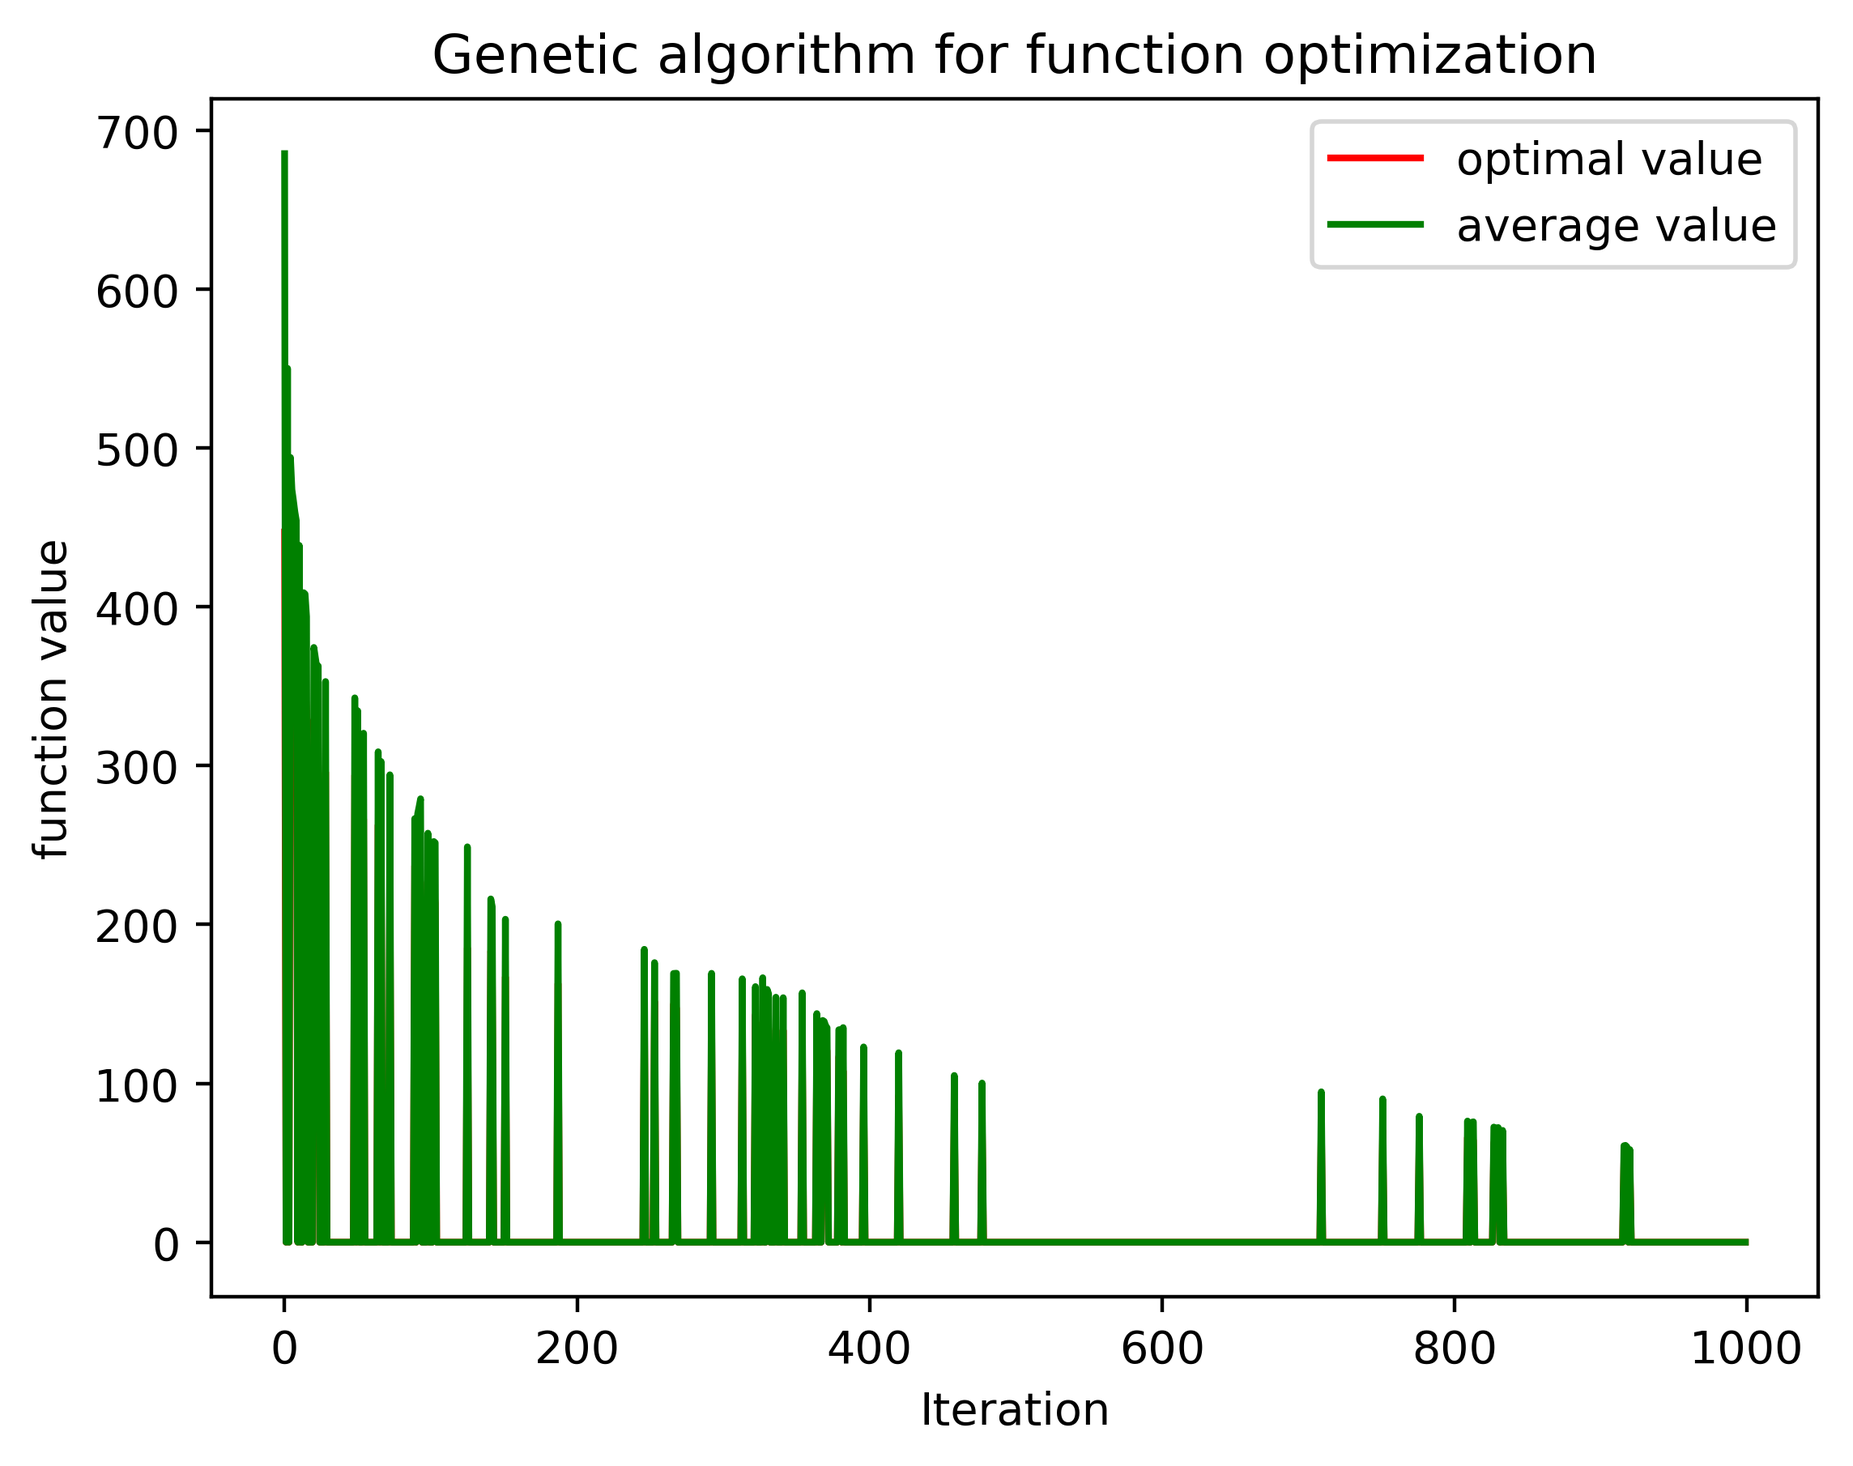
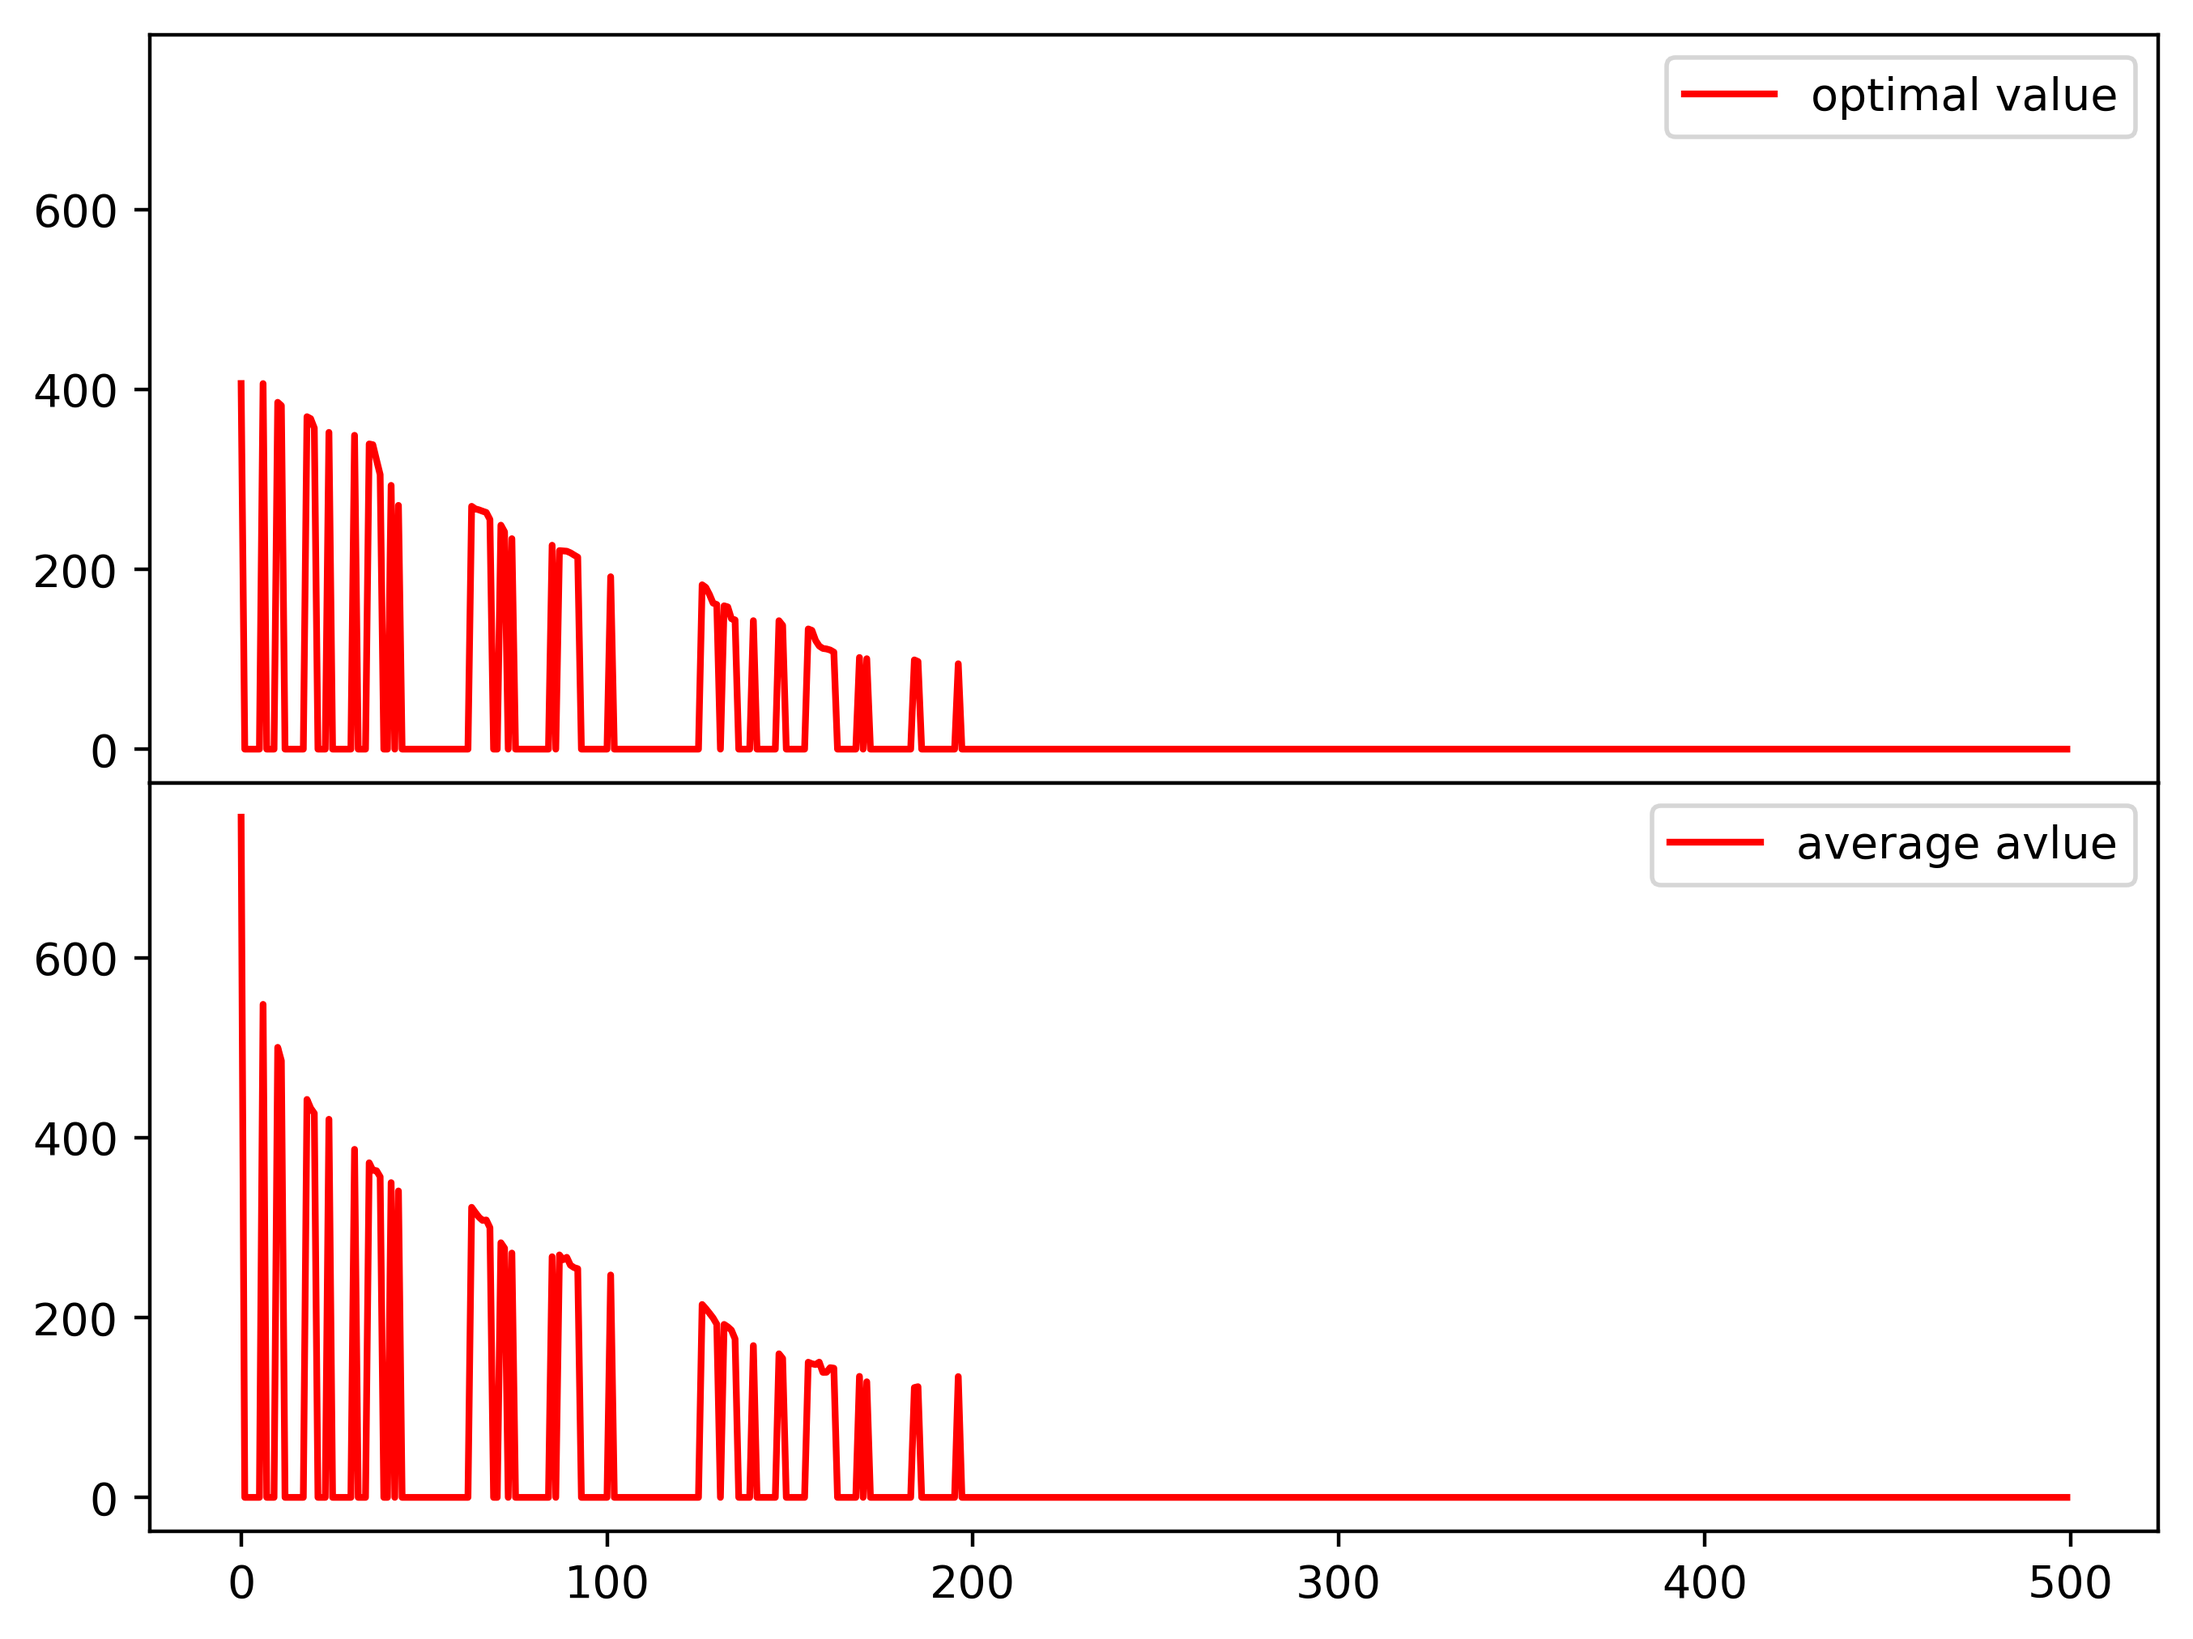
update .gitignore

diff --git a/geneticAlgorithm.py b/geneticAlgorithm.py
@@ -74,7 +74,7 @@ class geneticAlgorithm:
                 self.averageFitneess = np.mean(self.fitness)
                 self.trace[self.t, 0] = (1 - self.best.fitness) / self.best.fitness
                 self.trace[self.t, 1] = (1 - self.averageFitneess) / self.averageFitneess
-            print("Generation %d: optimal function value is: %f; average function value is %f" % ( self.t, self.trace[self.t, 0], self.trace[self.t, 1]))
+            # print("Generation %d: optimal function value is: %f; average function value is %f" % ( self.t, self.trace[self.t, 0], self.trace[self.t, 1]))
         print("Optimal function value is: %f; " % self.trace[self.t, 0]) 
         print ("Optimal solution is:") 
         print (self.best.chrom) 
@@ -141,9 +141,9 @@ class geneticAlgorithm:
                 mutatePos = np.random.randint(0, self.vardim-1)
                 theta = np.random.random()
                 if theta > 0.5:
-                    newPopulation[i].chrom[mutatePos] = newPopulation[i].chrom[mutatePos] - (newPopulation[i].chrom[mutatePos] - self.bound[0,mutatePos]) * (1 - np.random.random()**(1- self.t/self.MAXGEN))
+                    newPopulation[i].chrom[mutatePos] = newPopulation[i].chrom[mutatePos] - (newPopulation[i].chrom[mutatePos] - self.bound[0,mutatePos]) * (1 - np.random.random() * (1- self.t/self.MAXGEN)**2)
                 else:
-                    newPopulation[i].chrom[mutatePos] = newPopulation[i].chrom[mutatePos] + (self.bound[1, mutatePos] - newPopulation[i].chrom[mutatePos])* (1 - np.random.random() ** (1 - self.t / self.MAXGEN))
+                    newPopulation[i].chrom[mutatePos] = newPopulation[i].chrom[mutatePos] - (self.bound[1, mutatePos] - newPopulation[i].chrom[mutatePos])* (1 - np.random.random() *(1 - self.t / self.MAXGEN)**2)
 
         self.population = newPopulation
     
@@ -152,18 +152,19 @@ class geneticAlgorithm:
         plot the result of the genetic algorithm
         画出结果
         ''' 
+        plt.close()
         x = np.arange(0, self.MAXGEN) 
-        y1 = self.trace[:, 0] 
-        y2 = self.trace[:, 1] 
-        plt.plot(x, y1, 'r', label='optimal value') 
-        plt.plot(x, y2, 'g', label='average value') 
-        plt.xlabel("Iteration") 
-        plt.ylabel("function value") 
-        plt.title("Genetic algorithm for function optimization") 
-        plt.legend() 
+        labels = ["optimal value", "average avlue"]
+        
+        fig, axes = plt.subplots(2,1, figsize=(8,6),sharey=True)
+        
+        for i in range(2):
+            axes[i].plot(x, self.trace[:,i], 'r', label=labels[i]) 
+            axes[i].legend(loc='best')
+        plt.subplots_adjust(wspace=0,hspace=0)
         plt.savefig('GA_iteration.png', dpi=400, bbox_inches='tight')
 
 if __name__ == "__main__":
     boundaries = np.tile([[-600],[600]],25)
-    ga = geneticAlgorithm(60, 25, boundaries, 1000,[0.9, 0.1, 0.5])
+    ga = geneticAlgorithm(60, 25, boundaries, 500, [0.9, 0.1, 0.5])
     ga.solve()

diff --git a/objFunction.py b/objFunction.py
@@ -16,12 +16,9 @@ def grieFunc(vardim, x, bound):
 
 def rastFunc(vardim, x, bound):
     """
-    Rastrigin function
-    在数学优化中，Rastrigin函数是一个非凸函数，用作优化算法的性能测试问题。这是一个非线性多模态函数的典型例子。它最初由Rastrigin [1]提出作为二维函数，并已被Mühlenbein等人推广。[2]寻找这个函数的最小值是一个相当困难的问题，因为它有很大的搜索空间和大量的局部最小值。
-
-在一个n维域上，它被定义为：
-
-{\ displaystyle f（\ mathbf {x}）= An + \ sum _ {i = 1} ^ {n} \ left [x_ {i} ^ {2} -A \ cos（2 \ pi x_ {i}）\对]} f（\ mathbf {x}）= An + \ sum _ {i = 1} ^ {n} \ left [x_ {i} ^ {2} -A \ cos（2 \ pi x_ {i}）\ right]
+    Rastrigin function    在数学优化中，Rastrigin函数是一个非凸函数，用作优化算法的性能测试问题。这是一个非线性多模态函数的典型例子。
+    它最初由Rastrigin [1]提出作为二维函数，并已被Mühlenbein等人推广。[2]寻找这个函数的最小值是一个相当困难的问题，因为它有很大的搜索空间和大量的局部最小值。
+    在一个n维域上，它被定义为：{\ displaystyle f（\ mathbf {x}）= An + \ sum _ {i = 1} ^ {n} \ left [x_ {i} ^ {2} -A \ cos（2 \ pi x_ {i}）\对]} f（\ mathbf {x}）= An + \ sum _ {i = 1} ^ {n} \ left [x_ {i} ^ {2} -A \ cos（2 \ pi x_ {i}）\ right]
     """
     s = 10 *25
     for i in range(1, vardim+1):
